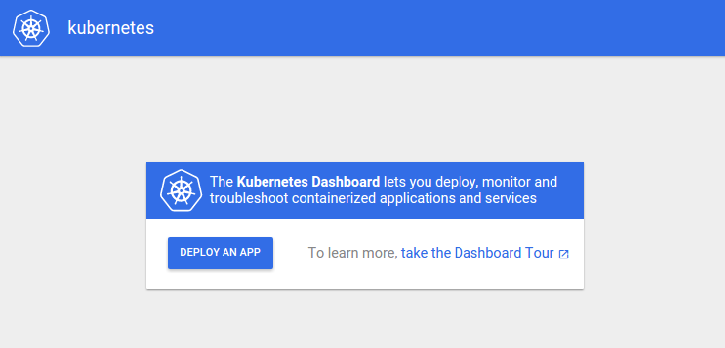
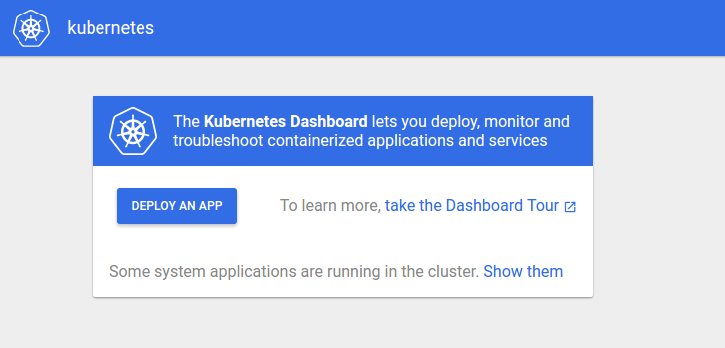
Include comments and add correct zero state page again

Changed region(s): [[0.1214, 0.2586, 0.8193, 0.8046], [0.1214, 0.8046, 0.8193, 0.8621]]

diff --git a/docs/user-guide/ui.md b/docs/user-guide/ui.md
@@ -5,31 +5,13 @@
 Kubernetes has a web-based user interface that allows you to deploy containerized
 applications to a Kubernetes cluster, troubleshoot them, and manage the cluster itself.
 
-## Accessing the Dashboard
-
-By default, the Kubernetes Dashboard is deployed as a cluster addon. To access it, visit
-`https://<kubernetes-master>/ui`, which redirects to
-`https://<kubernetes-master>/api/v1/proxy/namespaces/kube-system/services/kubernetes-dashboard`.
-
-If you find that you're not able to access the Dashboard, it may be because the
-`kubernetes-dashboard` service has not been started on your cluster. In that case,
-you can start it manually as follows:
-
-```shell
-kubectl create -f cluster/addons/dashboard/dashboard-controller.yaml --namespace=kube-system
-kubectl create -f cluster/addons/dashboard/dashboard-service.yaml --namespace=kube-system
-```
-
-Normally, this should be taken care of automatically by the
-[`kube-addons.sh`](http://releases.k8s.io/{{page.githubbranch}}/cluster/saltbase/salt/kube-addons/kube-addons.sh)
-script that runs on the master. Release notes and development versions of the Dashboard can be
-found at https://github.com/kubernetes/dashboard/releases.
+By default, the Kubernetes Dashboard is deployed as a cluster addon. It is enabled by default in Kubernetes 1.2 clusters. Click [here](/docs/user-guide/ui-access/) to learn more about the Dashboard access.
 
 ## Using the Dashboard
 
 The Dashboard can be used to get an overview of applications running on the cluster, and to provide information on any errors that have occurred. You can also inspect your replication controllers and corresponding services, change the number of replicated Pods, and deploy new applications using a deploy wizard.
 
-When accessing the Dashboard on an empty cluster for the first time, the Welcome page is displayed. This page contains a link to this document as well as a button to deploy your first application.
+When accessing the Dashboard on an empty cluster for the first time, the Welcome page is displayed. This page contains a link to this document as well as a button to deploy your first application. In addition, you can view which system applications are running by default in the `kube-system` [namespace](/docs/admin/namespaces/) of your cluster, for example monitoring applications such as Heapster.
 
 ![Kubernetes Dashboard welcome page](/images/docs/ui-dashboard-zerostate.png)
 
@@ -45,7 +27,7 @@ The wizard expects that you provide the following information:
 
 - **App name** (mandatory): Name for your application. A [label](/docs/user-guide/labels/) with the name will be added to the Replication Controller and Service, if any, that will be deployed.
 
-  The application name must be unique within the selected Kubernetes namespace. It must start with a lowercase character, and contain only lowercase letters, numbers and dashes (-). It is limited to 24 characters.
+  The application name must be unique within the selected Kubernetes [namespace](/docs/admin/namespaces/). It must start with a lowercase character, and contain only lowercase letters, numbers and dashes (-). It is limited to 24 characters.
 
 - **Container image** (mandatory): The URL of a public Docker [container image](/docs/user-guide/images/) on any registry, or a private image (commonly hosted on the Google Container Registry or Docker Hub).
 

diff --git a/docs/hellonode.md b/docs/hellonode.md
@@ -127,7 +127,7 @@ If all goes well, you should be able to see the container image listed in the co
 
 ## Create your cluster
 
-A cluster consists of a master API server and a set of worker VMs called nodes. 
+A cluster consists of a master API server and a set of worker VMs called nodes.
 
 Create a cluster via the Console: *Compute > Container Engine > Container Clusters > New container cluster*. Leave all the options default, and you should get a Kubernetes cluster with three nodes, ready to receive your container image.
 
@@ -277,7 +277,7 @@ First, let’s modify the application. On the development machine, edit server.j
 We can now build and publish a new container image to the registry with an incremented tag:
 
 ```shell
-docker build -t gcr.io/PROJECT_ID/hello-node:v2 . 
+docker build -t gcr.io/PROJECT_ID/hello-node:v2 .
 gcloud docker push gcr.io/PROJECT_ID/hello-node:v2
 ```
 
@@ -362,9 +362,20 @@ While this is happening, the users of the services should not see any interrupti
 
 Hopefully with these deployment, scaling and update features you’ll agree that once you’ve setup your environment (your GKE/Kubernetes cluster here), Kubernetes is here to help you focus on the application rather than the infrastructure.
 
+## Observe the Kubernetes Web UI (optional)
+
+With Kubernetes 1.2, a graphical web user interface (dashboard) has been introduced. It is enabled by default for 1.2 clusters.
+This user interface allows you to get started quickly and enables some of the functionality found in the CLI as a more approachable and discoverable way of interacting with the system.
+
+Enjoy the Kubernetes graphical dashboard and use it for deploying containerized applications, as well as for monitoring and managing your clusters!
+
+![image](/images/docs/ui-dashboard-cards-menu.png)
+
+Learn more about the web interface by taking the [Dashboard tour](/docs/user-guide/ui/).
+
 ## That's it! Time to tear it down
 
-That's it for the demo! So you don't leave this all running and incur charges, let's learn how to tear things down. 
+That's it for the demo! So you don't leave this all running and incur charges, let's learn how to tear things down.
 
 Delete the Deployment (which also deletes the running pods) and Service (which also deletes your external load balancer):
 

diff --git a/docs/user-guide/ui-access.md b/docs/user-guide/ui-access.md
@@ -1,0 +1,32 @@
+---
+---
+
+By default, the Kubernetes Dashboard is deployed as a cluster addon. For 1.2 clusters, it is enabled by default.
+
+If you want to manually install it, visit
+
+`https://<kubernetes-master>/ui`, which redirects to
+`https://<kubernetes-master>/api/v1/proxy/namespaces/kube-system/services/kubernetes-dashboard`.
+
+If you find that you're not able to access the Dashboard, it may be because the
+`kubernetes-dashboard` service has not been started on your cluster. In that case,
+you can start it manually as follows:
+
+```shell
+kubectl create -f cluster/addons/dashboard/dashboard-controller.yaml --namespace=kube-system
+kubectl create -f cluster/addons/dashboard/dashboard-service.yaml --namespace=kube-system
+```
+
+Normally, this should be taken care of automatically by the
+[`kube-addons.sh`](http://releases.k8s.io/{{page.githubbranch}}/cluster/saltbase/salt/kube-addons/kube-addons.sh)
+script that runs on the master. Release notes and development versions of the Dashboard can be
+found at https://github.com/kubernetes/dashboard/releases.
+
+## Walkthrough
+
+For information on how to use the Dashboard, take the [Dashboard tour](/docs/user-guide/ui/).
+
+## More Information
+
+For more information, see the
+[Kubernetes Dashboard repository](https://github.com/kubernetes/dashboard).
